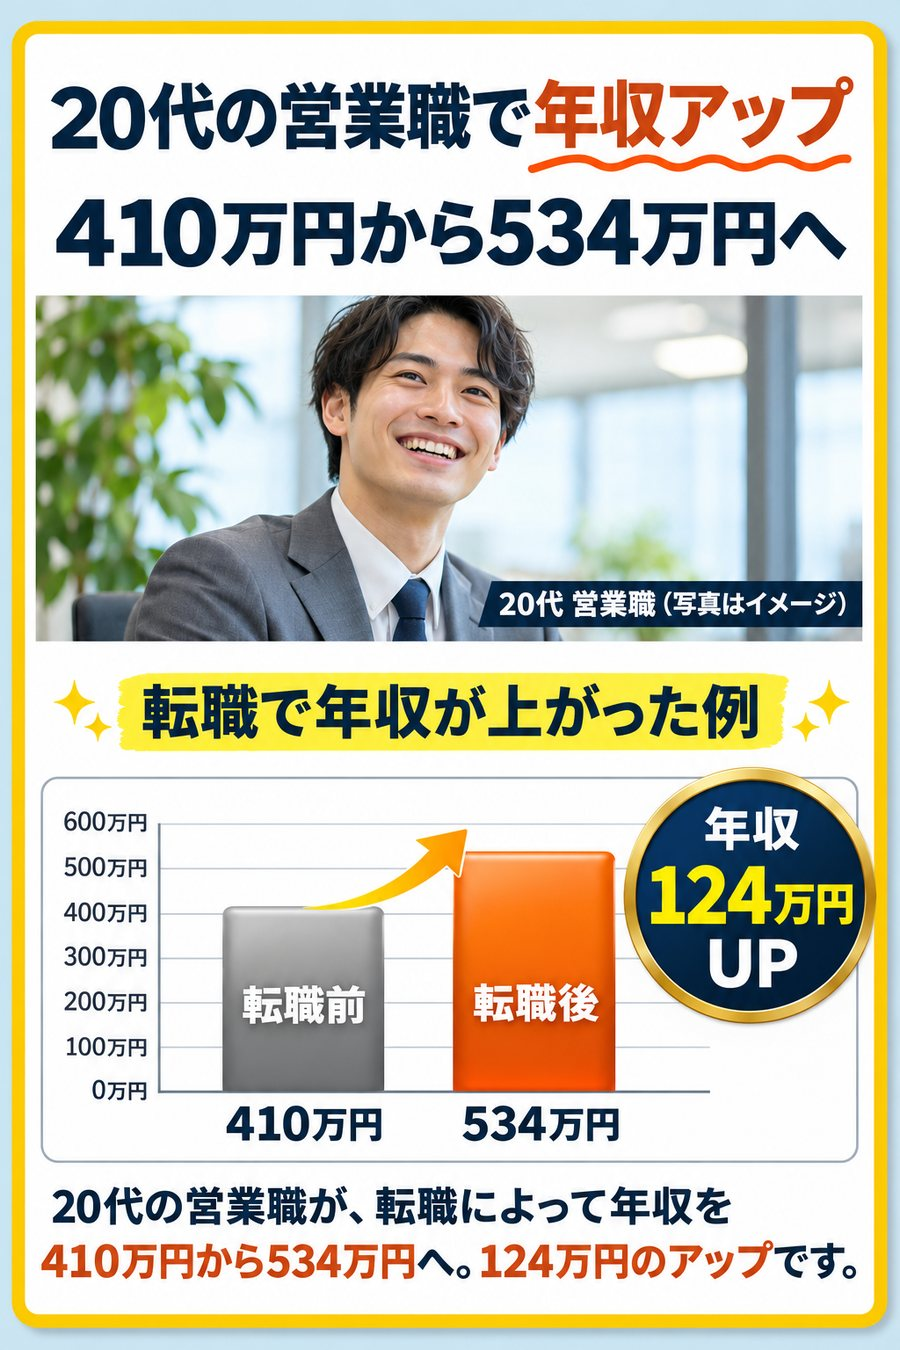
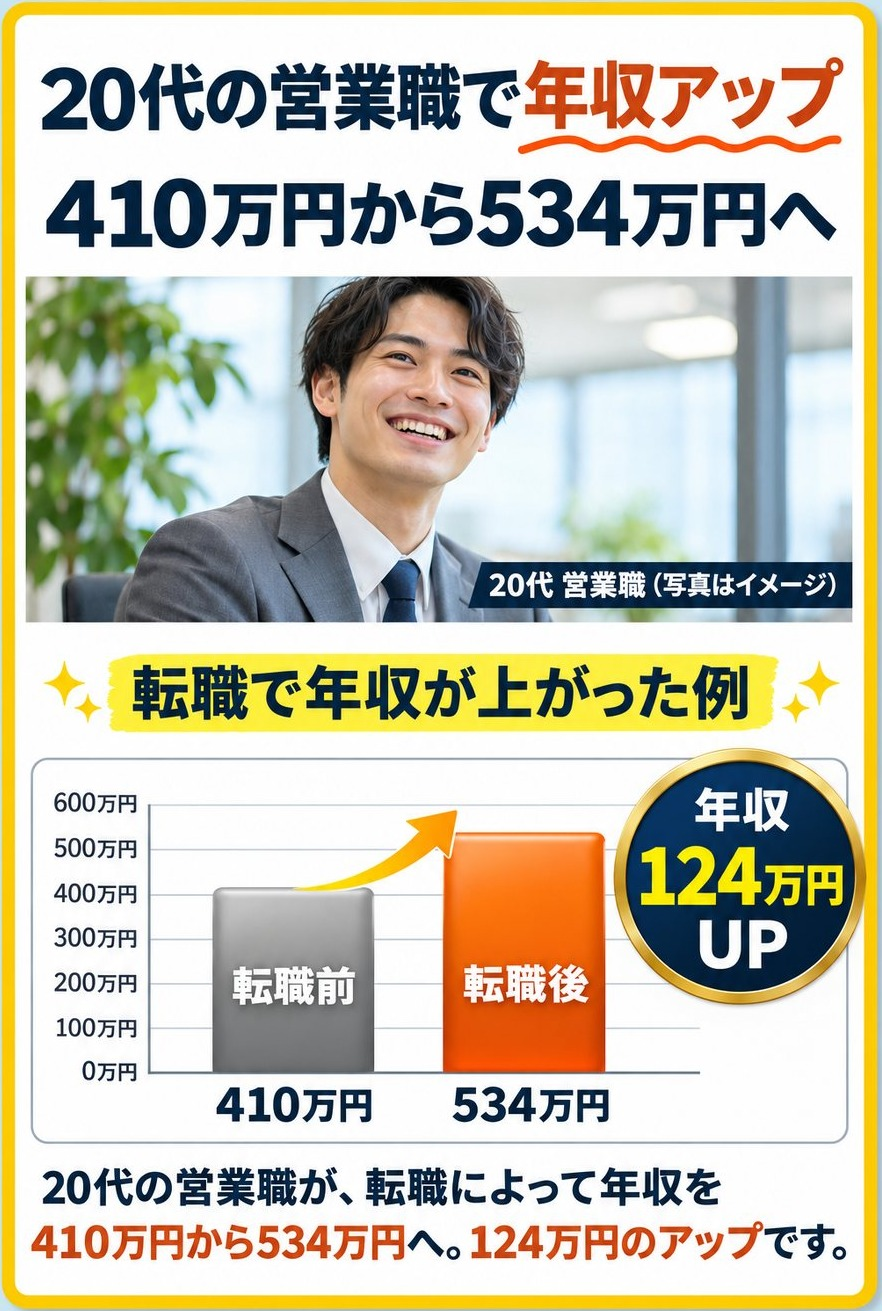
v2: 全カード画像を左右16px・幅358pxに統一（焼き込み余白を自動トリミング）、見出し20px、STEPカード幅統一

diff --git a/docs/v2/style.css b/docs/v2/style.css
@@ -662,3 +662,12 @@ h1,h2,h3,p,li{word-break:auto-phrase;line-break:strict;overflow-wrap:anywhere}
 .st-awards span{font-size:9.5px}
 .tokuten{padding-top:6px}
 .flow{padding-bottom:34px}
+
+/* ---- round 10: カード左右インセット16px統一（x=16 / w=358）・見出し20px・STEPカード幅統一 ---- */
+.cardimg,.secimg.dk,.secimg.cau{width:358px!important;max-width:calc(100% - 32px)!important;margin-left:auto!important;margin-right:auto!important;display:block;height:auto}
+.st{margin-left:16px!important;margin-right:16px!important}
+.rs-h,.vc-h,.jb-h,.st-h,.fq-h,.fl-h{font-size:20px!important;line-height:1.35}
+.flow .stimg{margin-top:10px!important}
+.cases,.dark,.reasons,.voices{padding-left:0!important;padding-right:0!important}
+.cases>:not(img):not(.cardimg),.dark>:not(img),.reasons>:not(img):not(h2),.voices>:not(img):not(h2){box-sizing:border-box;margin-left:auto;margin-right:auto;max-width:calc(100% - 24px)}
+.reasons .rs-h{margin-left:0!important;margin-right:0!important;width:100%}
